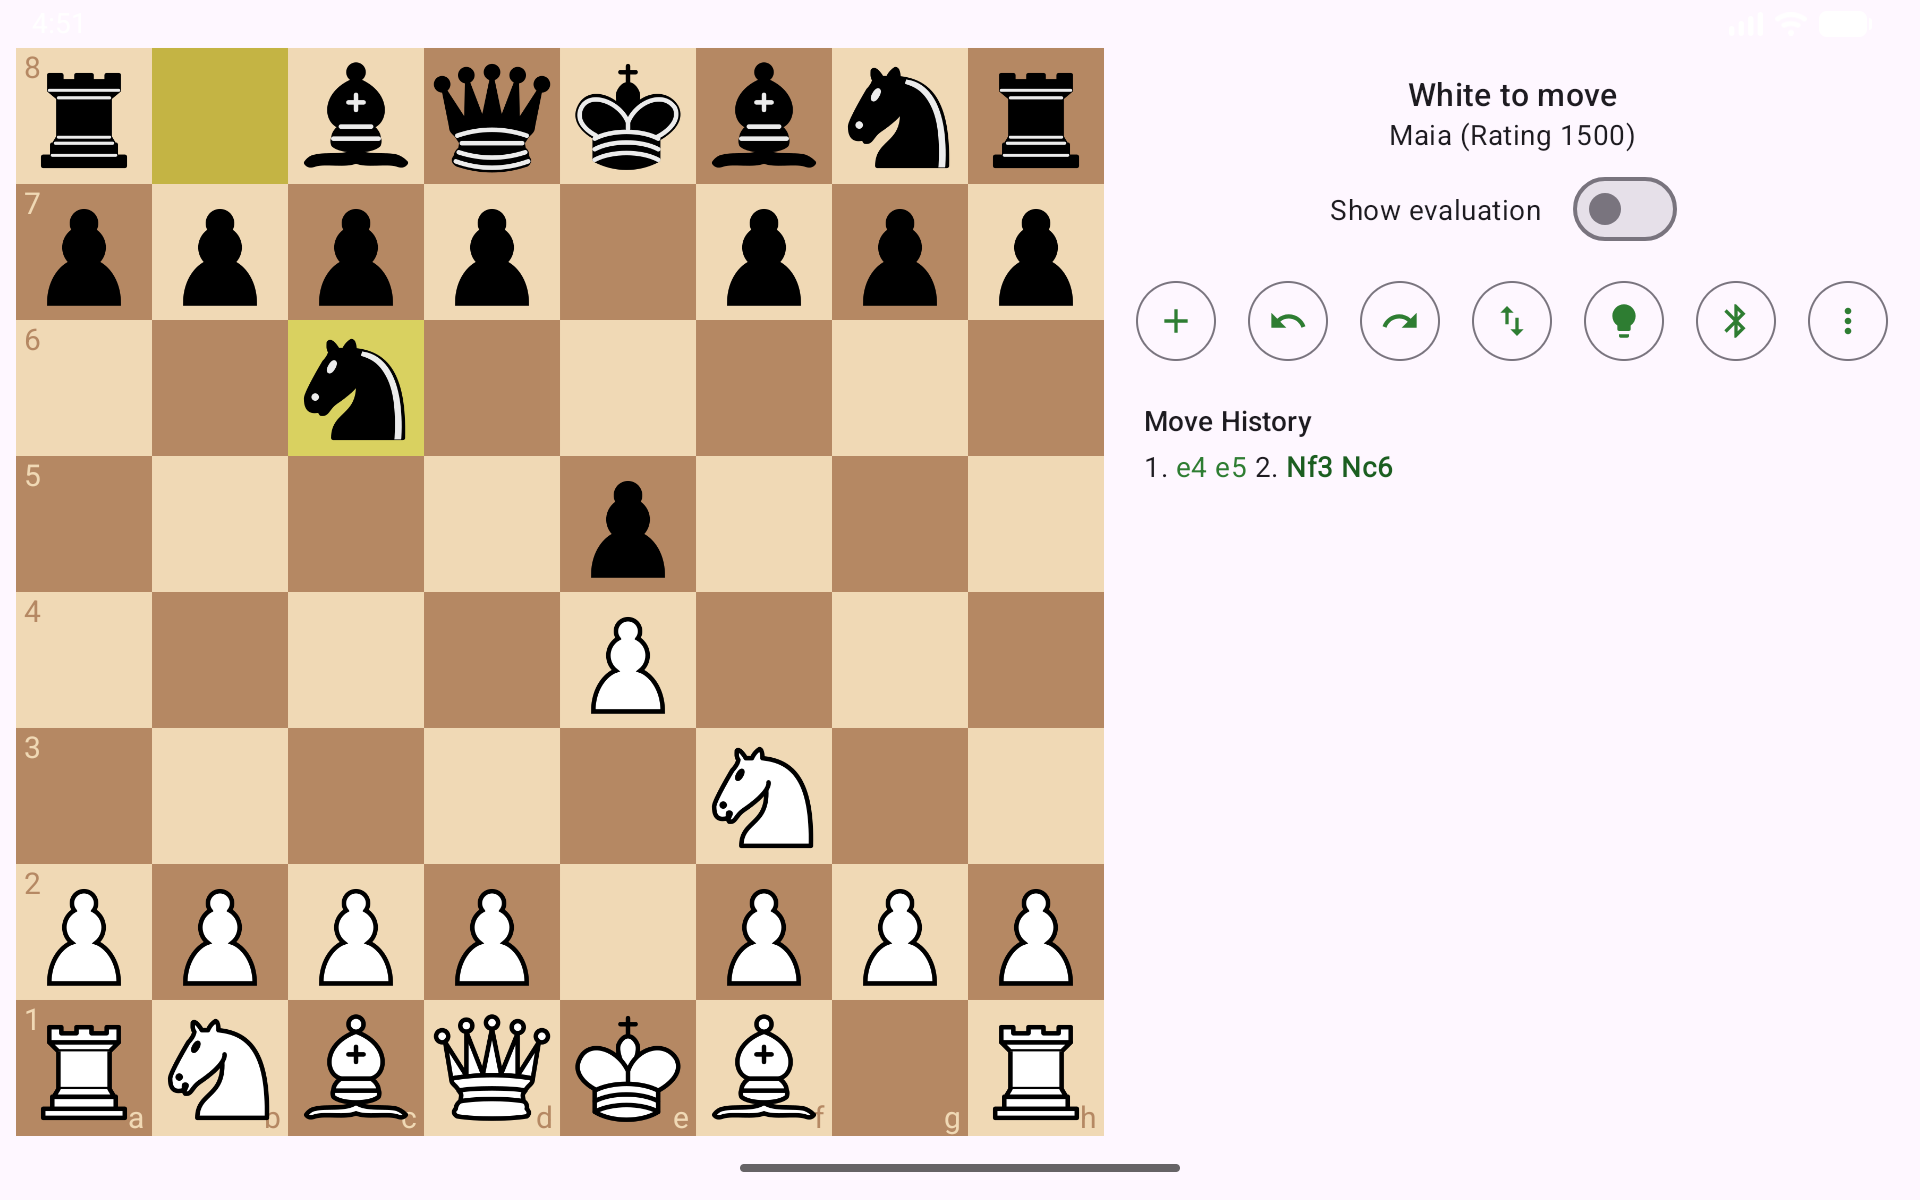
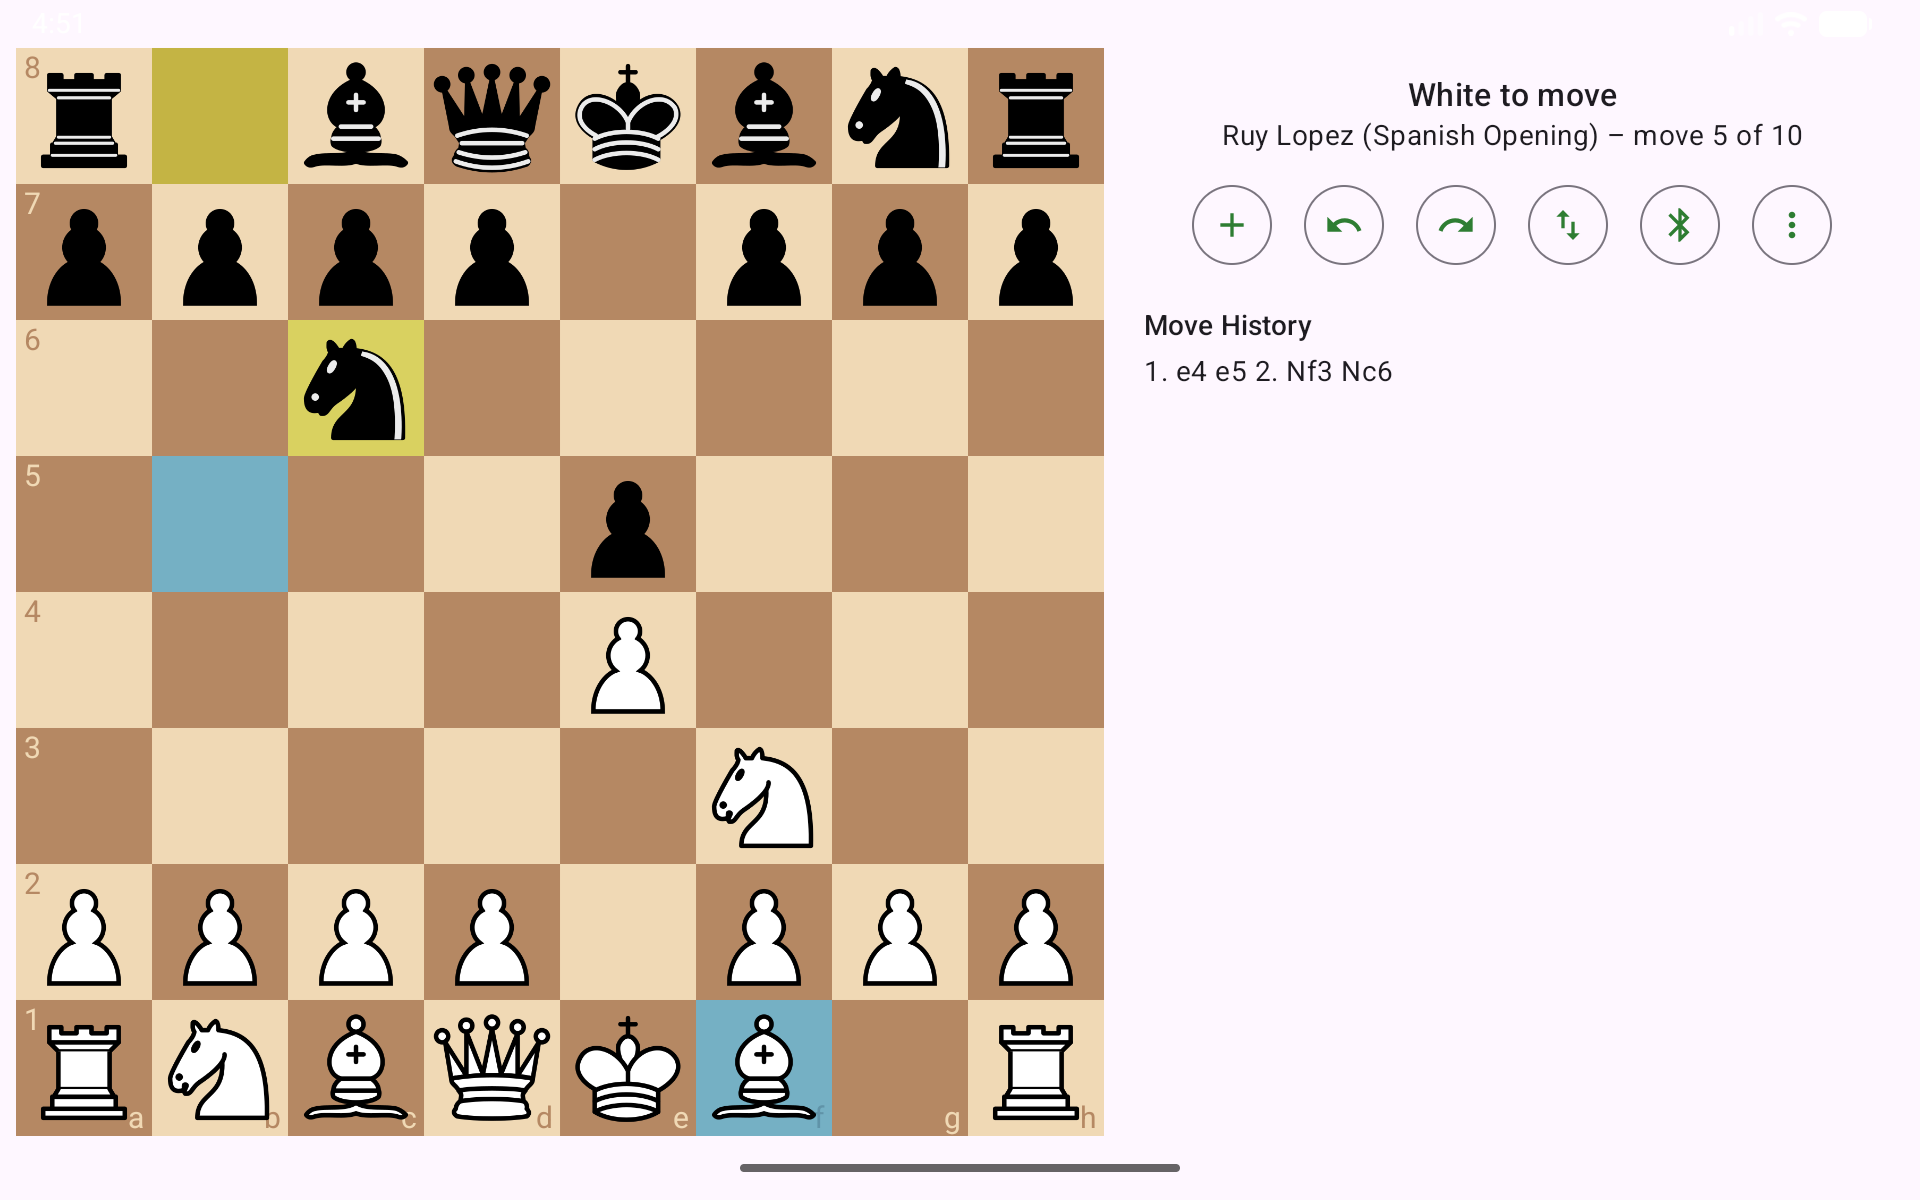
Android: two-column New Game dialog in landscape
In landscape the dialog's height is what is short. On a 7-inch tablet
(600 dp) and on any phone, the single-column form did not fit above the
dialog buttons; the ScrollView kept the colour choice and the strength
slider reachable but gave no visible cue that they existed below the
fold. A layout-land variant puts the opponent radios on the left and
colour plus the opponent-dependent options on the right, so the tallest
state (opening trainer) is no taller than the four radios. Same view ids,
so DialogNewGameBinding and updateDialogVisibility are unchanged.

Verified on the small_tablet emulator (1920x1200) in all three states
and on a Pixel 7a in landscape. The 7-inch screenshot set gains the
dialog it had to leave out before.

diff --git a/CHANGELOG.md b/CHANGELOG.md
@@ -38,6 +38,10 @@ Version bumped to 1.5.2, not yet tagged.
 
 ### Fixed
 
+- Android, landscape: the New Game dialog no longer hides the colour choice
+  and the strength slider below the fold on short screens (phones, 7-inch
+  tablets); it now lays out in two columns, opponent on the left and the
+  rest on the right.
 - Android, DGT Pegasus: disconnecting within the board's start-up sequence
   no longer leaves one "write failed" error per remaining init command
   behind, and a reconnect inside that sequence no longer starts a second,
